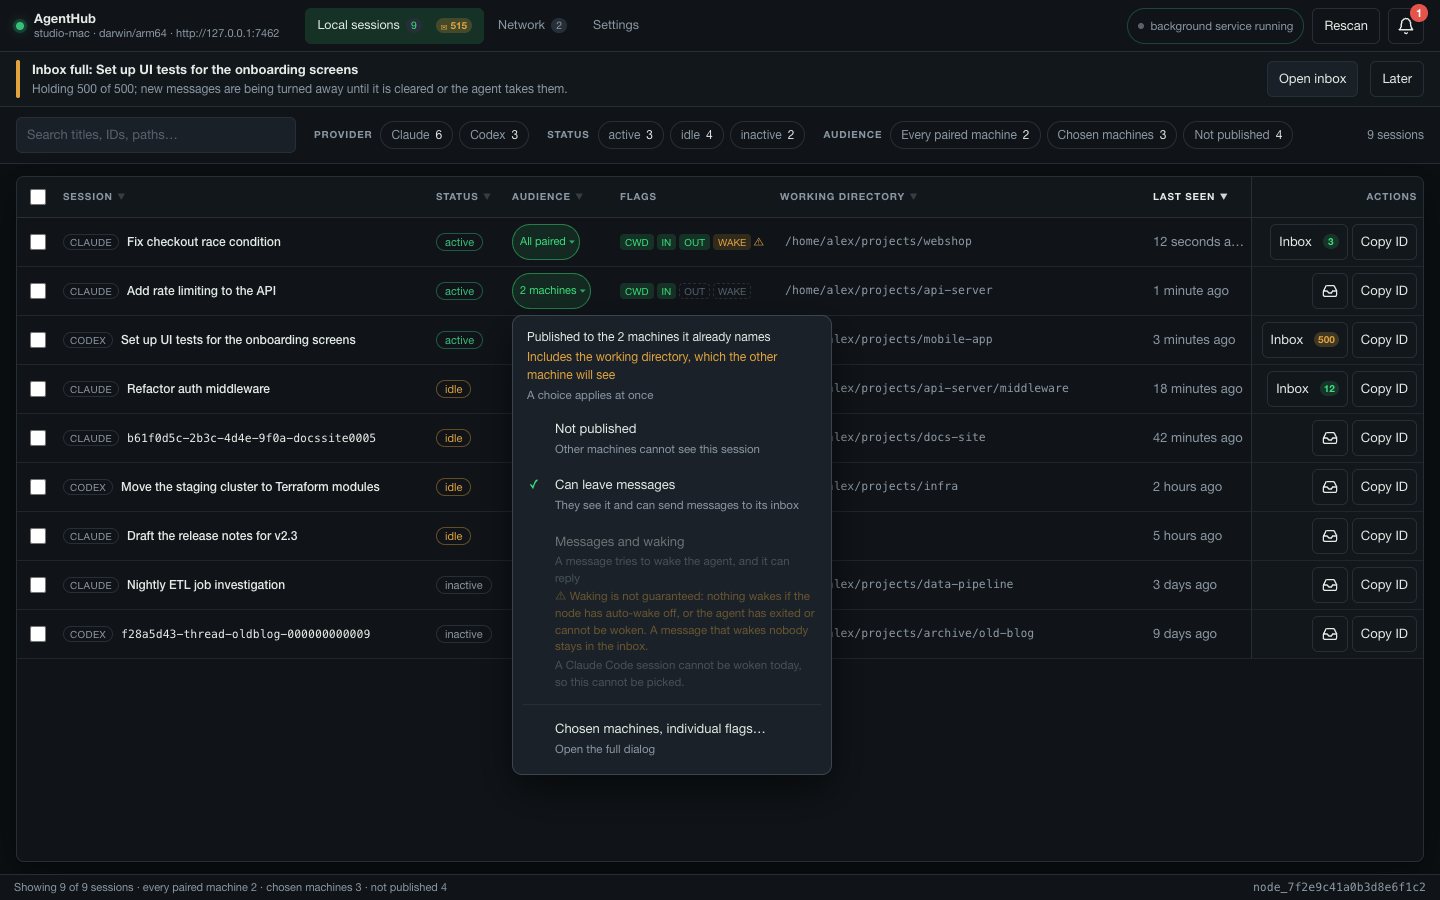
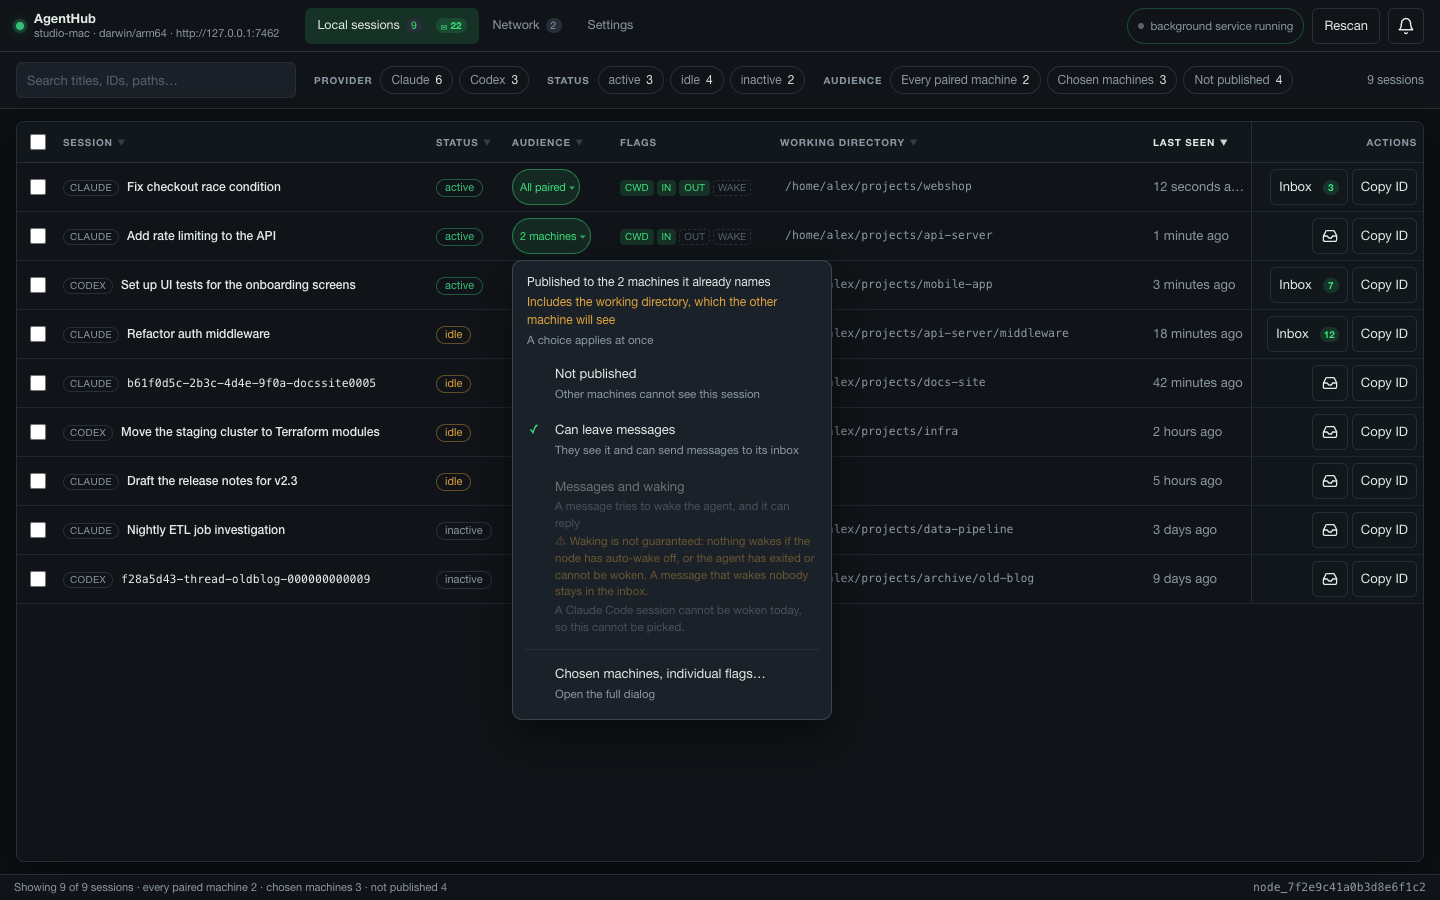
docs: fix the second beginner review of the README and guide
- Direct cable: say which ranges already count as private, and use a
  122.122.122.x cable for the "Treat as private ranges" example
- README: sessions are marked active, idle or gone quiet, not "waiting on you";
  the FAQ says what the LAN sees while pairing is open; Windows build noted as
  never run on a real Windows computer
- Both sides open "Can't find the other machine?" and one types the other's
  address
- Guide: what to do when the Network tab's list stays empty, what the
  searching switch in Node settings does, and that step 2 shows the
  unverified-list notice too
- README: only the sessions picture at the top; first-run and pairing pictures
  moved to the setup and privacy sections
- developer.md: blank line after each "Outdated" note
- zh README: drop the half sentence the English lacks
- Screenshots: in ?demo=readme the top Claude row no longer wakes, no inbox is
  full, and the wizard pictures start with nothing shared

diff --git a/desktop/frontend/dev/mock.js b/desktop/frontend/dev/mock.js
@@ -71,6 +71,9 @@ if (readmeDemo) {
     sessions.splice(hostile, 1);
     Object.assign(counts, { total: sessions.length, claude: counts.claude - 1, none: counts.none - 1 });
   }
+  // The README says a Claude Code session is never woken, so its picture does
+  // not show the top row, a Claude Code session, flagged WAKE.
+  sessions[0].audience.autoWake = false;
 }
 
 // The first-run wizard, which the finished window above can never show: every
@@ -425,15 +428,17 @@ const shapedService = () => ({
   noah: { toolError: "ah not found on PATH or beside the app", supported: true, installed: false, running: false },
 }[serviceShape]);
 // A first run has published nothing yet, so the counts follow the sessions the
-// wizard's step 3 shares rather than the finished preview's fixed numbers.
-if (firstRun) for (const s of sessions) s.audience = aud("none");
+// wizard's step 3 shares rather than the finished preview's fixed numbers. The
+// README's wizard pictures start there too, so step 3 is not already ticked.
+const nothingShared = firstRun || (readmeDemo && onboarding !== "");
+if (nothingShared) for (const s of sessions) s.audience = aud("none");
 const liveCounts = () => ({
   ...counts,
   all_paired: sessions.filter((s) => s.audience.mode === "all_paired").length,
   selected: sessions.filter((s) => s.audience.mode === "selected").length,
   none: sessions.filter((s) => s.audience.mode === "none").length,
 });
-const overviewCounts = () => (!scanned ? { total: 0, all_paired: 0, selected: 0, none: 0 } : firstRun ? liveCounts() : counts);
+const overviewCounts = () => (!scanned ? { total: 0, all_paired: 0, selected: 0, none: 0 } : nothingShared ? liveCounts() : counts);
 
 configure({
   // A node that is not answering: `reachable` false and the dial error, shaped
@@ -520,7 +525,9 @@ configure({
       ok: true,
       counts: {
         [sessions[0].id]: { held: 3, capacity: 500, full: false },
-        [sessions[2].id]: { held: 500, capacity: 500, full: true },
+        // A full inbox puts a banner across the README picture; it stays full
+        // in every other load.
+        [sessions[2].id]: readmeDemo ? { held: 7, capacity: 500, full: false } : { held: 500, capacity: 500, full: true },
         [sessions[3].id]: { held: 12, capacity: 500, full: false },
       },
     };

diff --git a/README.md b/README.md
@@ -6,19 +6,13 @@ English | [繁體中文](README.zh-Hant.md)
 
 **One window for every Claude Code and Codex session on all of your machines.**
 
-AgentHub lists the coding-agent sessions running on your computers, shows which
-ones are waiting on you, and lets an agent on one machine send a message to an
-agent on another. It all stays on your own network: no account, no cloud
+AgentHub lists the coding-agent sessions on each of your computers, marks each
+one active, idle or gone quiet, and lets an agent on one machine send a message
+to an agent on another. It all stays on your own network: no account, no cloud
 server, no telemetry. Free and open source under the MIT license.
 
 ![The Local sessions table: nine Claude Code and Codex sessions with their status, who can see each one, and inbox counts](docs/screenshots/local-sessions.png)
 *Every session on this machine, with its status, who can see it, and how many messages are waiting.*
-
-![First-run setup, step 1: three checks, a box saying what opening the network and searching it will show, and the "Get this machine ready" and "Use it on this machine only" buttons](docs/screenshots/first-run.png)
-*A fresh install opens on a three-step setup. Nothing is shared until you choose it.*
-
-![Pairing: two fingerprints to compare against the other machine's screen, with "Same — approve" and "Different — reject"](docs/screenshots/network-pairing.png)
-*Two machines pair only after both people compare the same codes on both screens.*
 
 The window is in English and 繁體中文. The pictures use made-up data.
 
@@ -62,6 +56,9 @@ before the first launch. The guide explains
 
 ### 3. Follow the setup, on both computers
 
+![First-run setup, step 1: three checks, a box saying what opening the network and searching it will show, and the "Get this machine ready" and "Use it on this machine only" buttons](docs/screenshots/first-run.png)
+*A fresh install opens on a three-step setup. Nothing is shared until you choose it.*
+
 1. **Get this machine ready.** One button starts AgentHub in the background,
    makes it start when you log in, lets other computers on your network reach
    it, and turns on searching the network. The box above the button says what
@@ -71,10 +68,10 @@ before the first launch. The guide explains
 2. **Connect another.** The other computer appears in the list once *both*
    have finished step 1. If the list says this machine is not looking, press
    **Start searching the network**. Still nothing? Open **Can't find the other
-   machine?** and type the address the other screen shows. Send the request
-   from one computer. The one that was asked compares the two codes with the
-   other screen and presses **Same — approve**; then the one that asked
-   compares them too and presses **Same — finish pairing**.
+   machine?** on both and type the address one shows into the other. Send the
+   request from one computer. The one that was asked compares the two codes
+   with the other screen and presses **Same — approve**; then the one that
+   asked compares them too and presses **Same — finish pairing**.
 3. **Share sessions.** Tick the sessions the other computer may see, and choose
    whether it can only leave messages or also wake the agent.
 
@@ -85,9 +82,9 @@ Network tab. The [user guide](docs/guide.md) covers every screen.
 ## What you can do
 
 - **See every session and its status.** Claude Code and Codex, on a Mac, a
-  Linux box or a Windows PC, in one list. Each session shows `active`, `idle`,
-  `inactive` or `unknown`, read from the agent's own files without touching
-  the agent.
+  Linux box or a Windows PC (the Windows build exists, but has never run on a
+  real Windows computer), in one list. Each session shows `active`, `idle`,
+  `inactive` or `unknown`, read from the agent's own files without touching it.
 - **Share a session, one row at a time or many at once.** Each session's
   audience button has three choices: **Not published**, **Can leave messages**,
   or **Messages and waking**. A chosen-machines dialog handles the rest.
@@ -128,14 +125,17 @@ Network tab. The [user guide](docs/guide.md) covers every screen.
   Code's or Codex's files. A message reaches an agent only when the agent reads
   it, or when you turned on waking.
 
+![Pairing: two fingerprints to compare against the other machine's screen, with "Same — approve" and "Different — reject"](docs/screenshots/network-pairing.png)
+*Two machines pair only after both people compare the same codes on both screens.*
+
 Details and design records: [developer guide](docs/developer.md#how-it-stays-private).
 
 ## Status
 
-One person built this and uses it daily on a Mac and an Ubuntu box; nobody but
-its author has used it yet. What was tested on two real machines is in
-[docs/verification.md](docs/verification.md). The gaps below are real,
-including one where a feature reports success and may have done nothing.
+One person built this and uses it daily on a Mac and an Ubuntu box; nobody else
+has used it yet. What was tested on two real machines is in
+[docs/verification.md](docs/verification.md). The gaps below are real, including
+one where a feature reports success and may have done nothing.
 
 | What | State |
 |---|---|
@@ -152,9 +152,10 @@ including one where a feature reports success and may have done nothing.
 
 ## FAQ
 
-**Does it send anything to the internet?** No. AgentHub talks only to your
-own computers, directly, over your local network. It reaches GitHub only when
-you run the install script.
+**Does it send anything to the internet?** No. AgentHub talks only to
+computers on your local network, normally just the ones you paired with. While
+a pairing window is open, anyone on the same network can see this computer's
+name and address. It reaches GitHub only when you run the install script.
 
 **Why does macOS or Windows warn me?** The downloads are not signed, because a
 signing certificate costs money every year. Each release ships checksums you
@@ -165,8 +166,8 @@ shows no warning. [How to let it through](docs/guide.md#if-your-computer-warns-a
 which turns on searching, and be on the same network: if only one searches,
 neither sees the other. If step 2 says this machine is not looking, press
 **Start searching the network**. A firewall or a guest Wi-Fi can still hide
-them; then open **Can't find the other machine?** and type the address the
-other screen shows. [Troubleshooting](docs/guide.md#troubleshooting).
+them; then open **Can't find the other machine?** on both and type the address
+one shows into the other. [Troubleshooting](docs/guide.md#troubleshooting).
 
 **What can the other computer see after pairing?** Nothing, until you share a
 session. After that it sees the short description above, never the
@@ -193,8 +194,7 @@ has never been seen working. Waking Codex has been seen working on one machine.
 
 AgentHub is free and always will be. If it saves you time and you want to say
 so, there is a [Ko-fi page](https://ko-fi.com/sheldonchang). Nothing in the
-software changes either way — there is no paid tier and no telemetry that would
-notice. Bug reports, with a note about what you were trying to do, are worth
-more than money.
+software changes either way: no paid tier, no telemetry that would notice. Bug
+reports, with a note about what you were trying to do, are worth more than money.
 
 License: MIT — see [LICENSE](LICENSE).

diff --git a/docs/guide.md b/docs/guide.md
@@ -295,8 +295,8 @@ finish pairing**. If the pairing was abandoned, remove it on Demo-MacBook with
 ### Reading the list of machines found
 
 Everything in that list comes from packets anyone on your network can send, so
-nothing in it has been checked. The Network tab's drawer says so above its
-list: "Nothing in this list has been verified and appearing in it grants
+nothing in it has been checked. Step 2 and the Network tab's drawer both say
+so above the list: "Nothing in this list has been verified and appearing in it grants
 nothing." Use a row to find the right machine, and let the fingerprint
 comparison settle which machine it is. Some rows carry a mark:
 
@@ -358,6 +358,14 @@ across the top shows **Find the other machine**, **Send a request** and
 - The buttons on a request are **Fingerprints match, approve** (on the computer
   that was asked), **Fingerprints match, confirm** (on the computer that asked)
   and **Reject**.
+
+**If the list stays empty.** A computer appears under **Machines broadcasting**
+only while both computers are searching. If the drawer says "This machine is
+neither looking nor broadcasting.", searching is off here. Turn it on in
+**Settings → Node settings**: tick **Look for paired machines' addresses on the
+LAN** and press **Save and restart the service**. Or press **Show first-run
+setup** in **Settings → Appearance**, go to step 2 and press **Start searching
+the network**. Typing the other computer's address works either way.
 
 Closing the drawer ends pairing, unless a request is still waiting on someone.
 Paired computers are listed on the left of the Network tab under **Paired
@@ -628,7 +636,10 @@ machine would have to pair again; the window asks before it does that.
 addresses**, **Allow LAN connections**, **Look for paired machines' addresses on
 the LAN**, **Treat as private ranges** and **Allow messages to wake agents
 automatically**. **Save and restart the service** saves them, restarts the
-node, and checks that the change stuck.
+node, and checks that the change stuck. **Look for paired machines' addresses on
+the LAN** is the searching switch: while it is ticked, this computer always
+listens for other computers' announcements, and while a pairing window is open
+it announces its own name, address, platform, fingerprint and node ID.
 
 Platform differences:
 
@@ -710,12 +721,14 @@ the other machine?** and type the address: that works with searching off.
 - "Could not reach that address": check the address, that both computers share a
   network, and that the node on the other side is running.
 - "This machine will not send data to that address": the address is outside the
-  ranges this computer treats as private. Two computers on a direct cable often
-  need the cable's range under **Treat as private ranges**, on both sides. A
-  range is an address, a slash and a number: `10.0.0.0/24` is every address
-  from `10.0.0.0` to `10.0.0.255` (the first three numbers fixed), and `/16`
-  fixes only the first two. For a cable between `10.0.0.1` and `10.0.0.2`,
-  `10.0.0.0/24` covers both.
+  ranges this computer treats as private. Addresses starting with `10.`,
+  `172.16.` to `172.31.`, `192.168.` or `169.254.` already count as private and
+  need nothing. Only a direct cable whose two ends were given addresses outside
+  those, for example `122.122.122.1` and `122.122.122.2`, needs its range under
+  **Treat as private ranges**, on both sides. A range is an address, a slash and
+  a number: `122.122.0.0/16` covers every address starting with `122.122.`, and
+  `122.122.122.0/24` fixes the first three numbers. Either one covers both ends
+  of that cable.
 - "The other machine runs a build of AgentHub without the pairing exchange":
   update AgentHub there.
 

diff --git a/docs/developer.md b/docs/developer.md
@@ -477,6 +477,7 @@ Without it each node refuses to list the other, because it will not deliver to
 an address outside the ranges it trusts.
 
 > **Outdated:** the Network tab's drawer is now titled **Pair with another machine** and opens the pairing window by itself; a fresh install pairs from step 2 of the first-run setup. See [Pair another machine](guide.md#pair-another-machine).
+
 **2. Find each other.** Open the desktop app on both, go to the Network tab,
 press **Pair another machine…** to open the Pairing mode drawer and press
 **Pair with another machine** on one. It appears on the other's
@@ -534,6 +535,7 @@ a heartbeat. `ah peers` on the other machine saying `No paired nodes` is what
 half-done looks like.
 
 > **Outdated:** the drawer now opens the pairing window by itself and shows a three-step progress bar; the button names below still match. See [Pair another machine](guide.md#pair-another-machine) for what the window shows now.
+
 **In the desktop app**, the same exchange runs from the Network tab's Pairing
 mode drawer, which **Pair another machine…** opens: press **Pair with another
 machine** on the machine that decides,
@@ -565,6 +567,7 @@ With `--discover` running, each node learns the other's address from the
 announcements; no `PUT /v1/nodes/{id}/address` is needed.
 
 > **Outdated:** there is no **Set the audience…** button any more. Each row's audience button, and **Publish** on the selection bar, open a menu with three choices; the full dialog is behind **Chosen machines, individual flags…**. See [Share a session](guide.md#share-a-session).
+
 **4. Publish a session.** Pairing on its own shares nothing. In the app's
 Local sessions tab, tick the sessions and press **Set the audience…**, then choose
 who and tick **Let them queue messages** and **Let this session send messages
@@ -882,6 +885,7 @@ install the service or write an MCP config.
 The app requires a running node and talks to it over the same local HTTP API as the CLI. It refuses non-loopback node URLs, because the owner's API has no authentication and stays on loopback for that reason.
 
 > **Outdated:** the service form now has one field, the database path; the network settings moved to Settings → Node settings, and a fresh install sets them from the first-run setup. See [The background service](guide.md#the-background-service).
+
 When the node is not running, the panel under the header offers to install it
 as a background service, with the node's flags as form fields: the address other
 machines connect to is picked from this machine's interfaces, `--allow-lan` is
